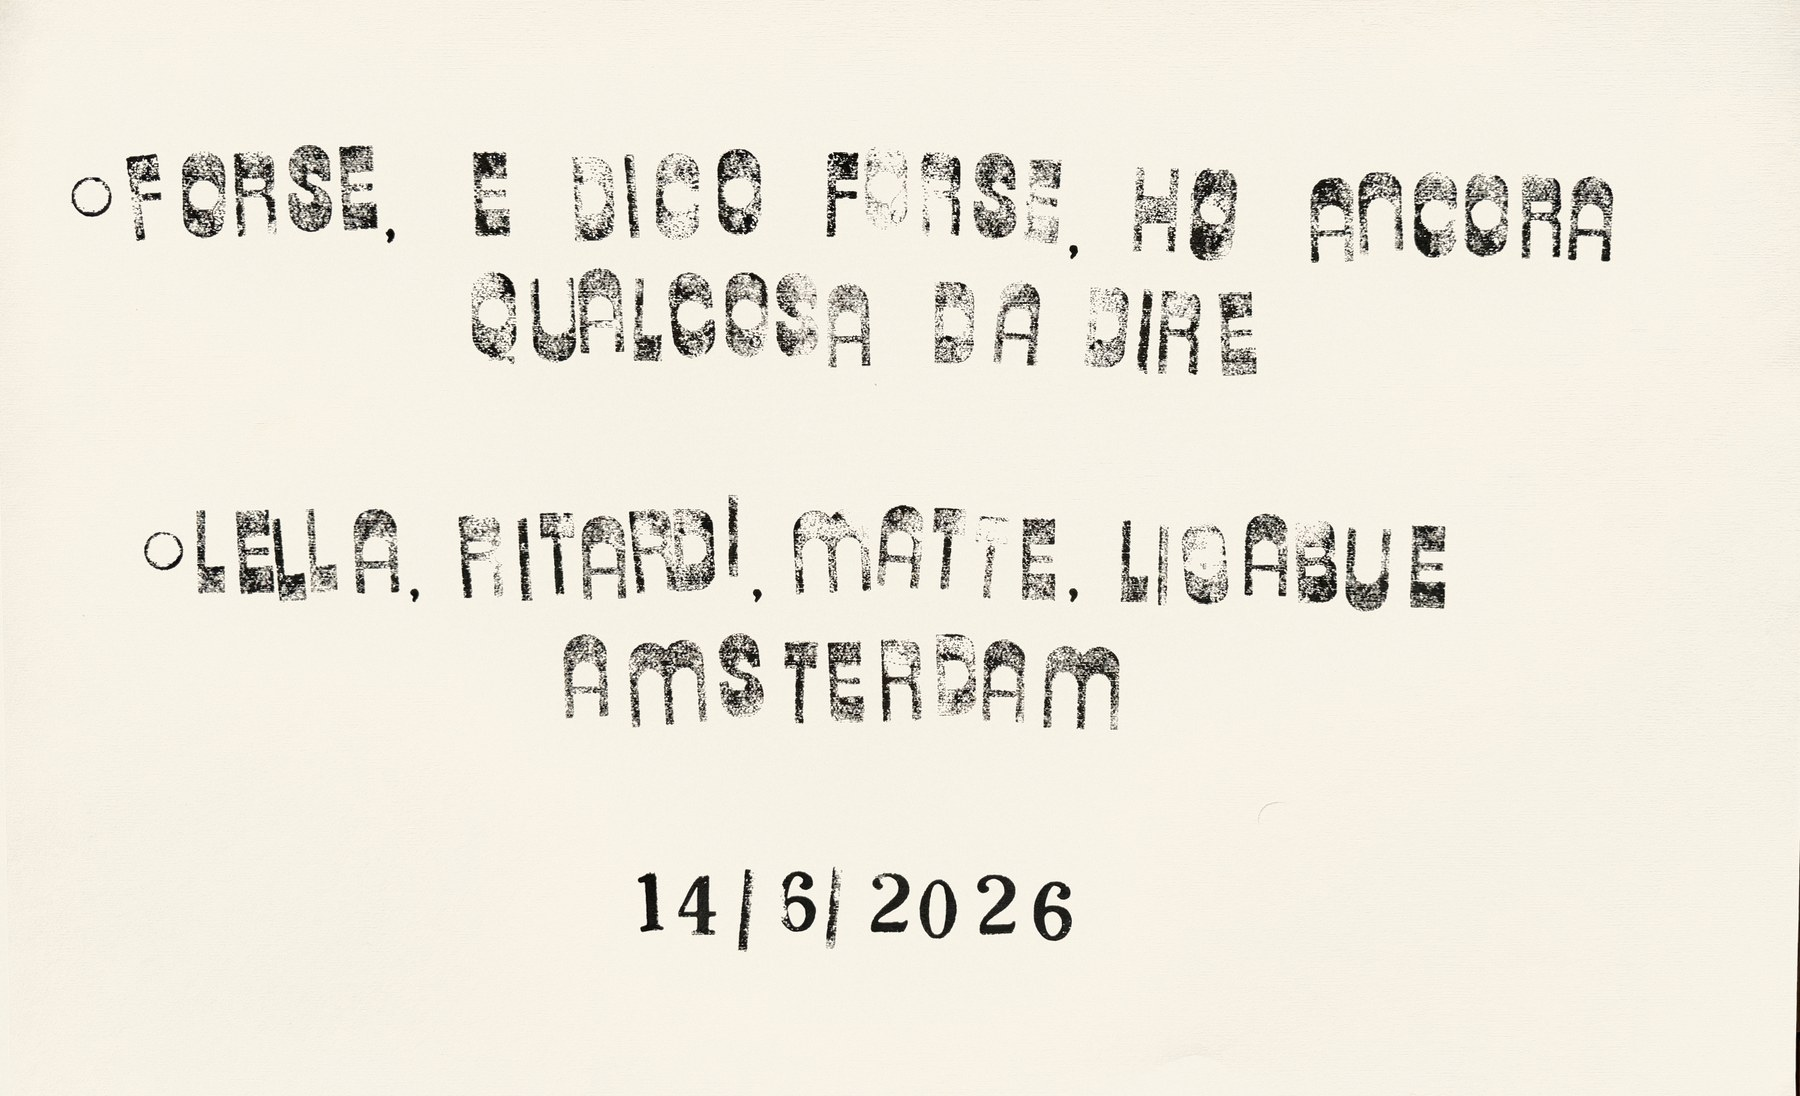
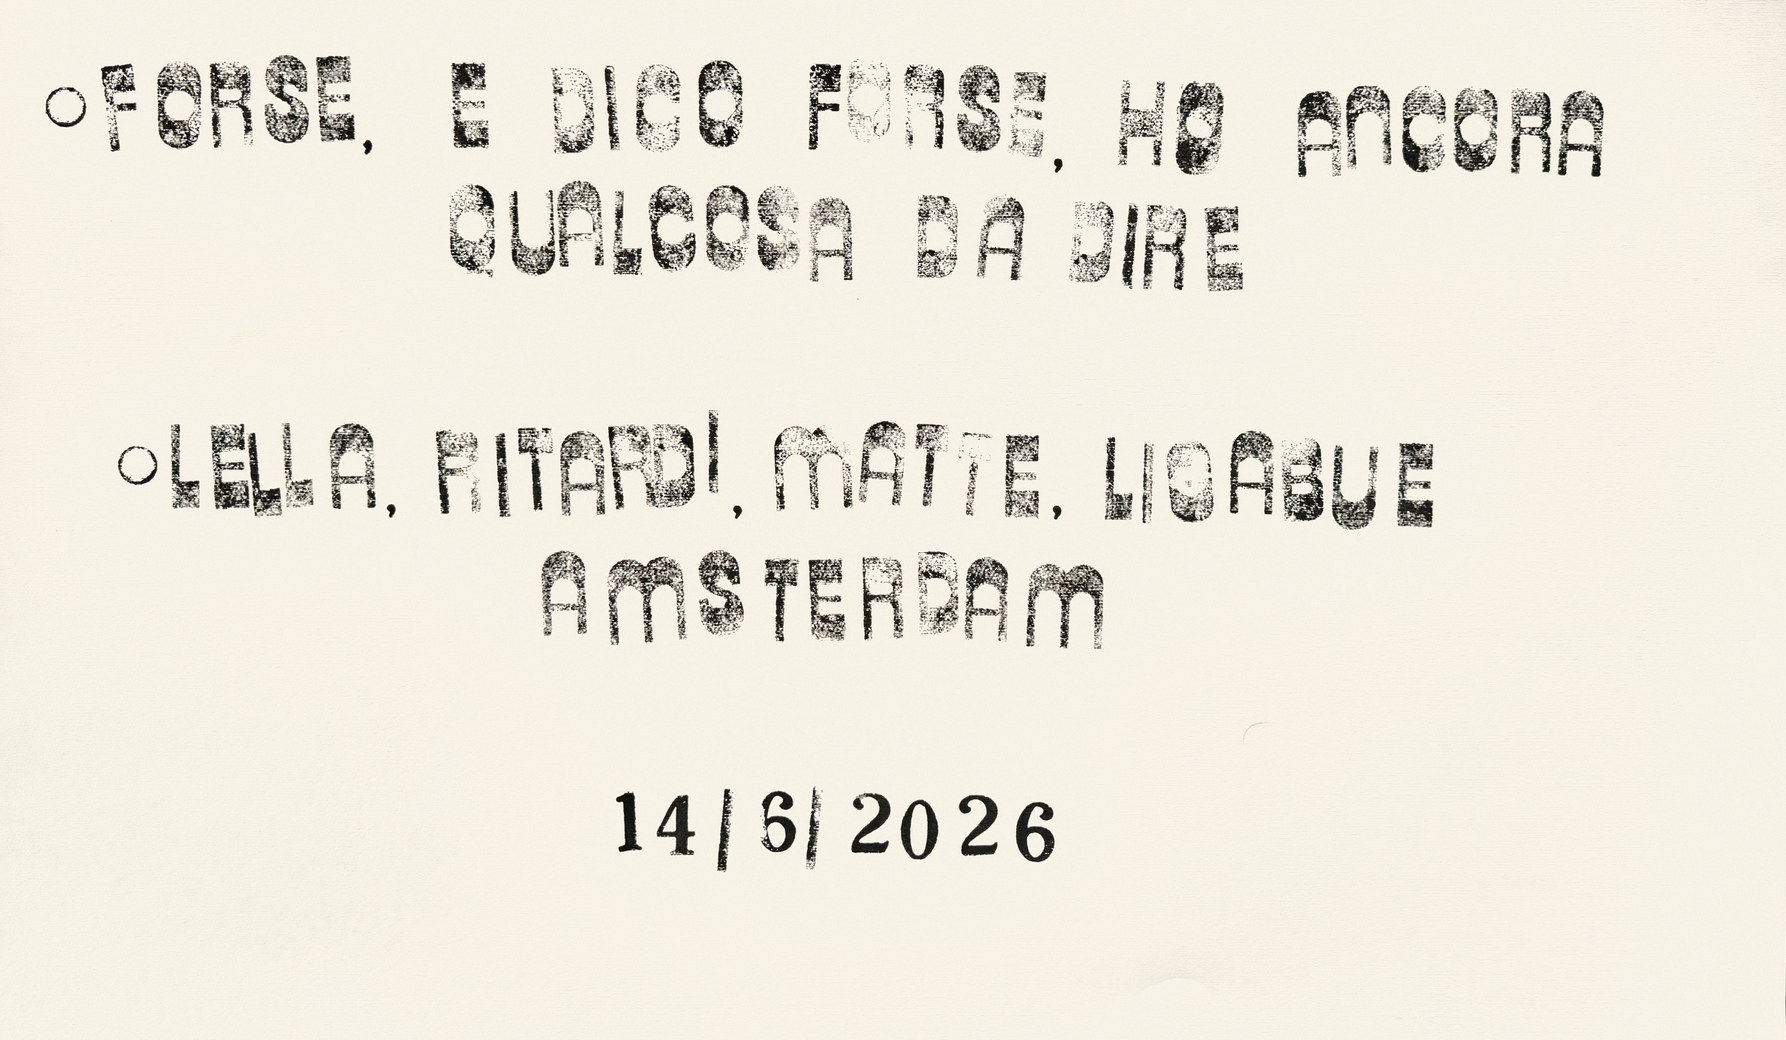
fix: 14/6 bordo destro - floodFill + erosione 80 + trim destro mirato

diff --git a/index.html b/index.html
@@ -682,11 +682,11 @@ section#timbri{ padding-top: clamp(160px, 18vw, 240px); }
       <figcaption class="work-caption"><span class="work-date">15/6/26</span></figcaption>
     </figure>
     <figure class="work">
-      <div class="work-frame" style="--ratio: 60.89%;">
+      <div class="work-frame" style="--ratio: 58.23%;">
         <img src="foto_definitive/Timbro_2026-06-14.jpg"
              srcset="foto_definitive/thumbs/Timbro_2026-06-14.jpg 800w, foto_definitive/Timbro_2026-06-14.jpg 1800w"
              sizes="(max-width: 720px) 92vw, 720px"
-             width="1800" height="1096"
+             width="1786" height="1040"
              alt="14/6/26" loading="lazy" decoding="async" />
       </div>
       <figcaption class="work-caption"><span class="work-date">14/6/26</span></figcaption>
